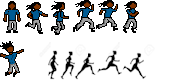
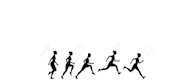
Implemented animated textures on blocks, added background, fed the dog

Changed region(s): [[0.375, 0.0, 0.75, 0.425], [0.0, 0.0, 0.375, 0.45], [0.0, 0.5, 0.125, 0.975]]

diff --git a/external/engine/source/ecs.cpp b/external/engine/source/ecs.cpp
@@ -10,29 +10,33 @@
 
 int _gfxCompareInt(const void *a, const void *b)
 {
-	return (*(const int *) a) - (*(const int *) b);
+	return (*(int*) a) - (*(int*) b);
 }
 
 void System::Visual::Update(Registry& reg)
 {
     for (std::size_t e = 1; e <= Engine::Get()->GetMaxEntity(); e++)
     {
-        if (reg.regGraphics.count(e) && reg.regPhysics.count(e))
+        if (reg.regGraphics.count(e))
         {
-			reg.regGraphics[e].Dst.x = Engine::Get()->Box2DSDL(reg.regPhysics[e].body->GetPosition()).x 
-            - (reg.regGraphics[e].TextureDimensions.x / 2);
-            reg.regGraphics[e].Dst.y = 
-            (Engine::Get()->GetWindowSurface()->h - Engine::Get()->Box2DSDL(reg.regPhysics[e].body->GetPosition()).y) - 
-            (reg.regGraphics[e].TextureDimensions.y / 2);
-            reg.regGraphics[e].Dst.w = reg.regGraphics[e].TextureDimensions.x;
-            reg.regGraphics[e].Dst.h = reg.regGraphics[e].TextureDimensions.y;
+			if (reg.regPhysics.count(e) && (reg.regPhysics[e].body->GetType() == b2_dynamicBody))
+			{
+				reg.regGraphics[e].Dst.x = Engine::Get()->Box2DSDL(reg.regPhysics[e].body->GetPosition()).x 
+            	- (reg.regGraphics[e].TextureDimensions.x / 2);
+            	reg.regGraphics[e].Dst.y = 
+            	(Engine::Get()->GetWindowSurface()->h - Engine::Get()->Box2DSDL(reg.regPhysics[e].body->GetPosition()).y) - 
+            	(reg.regGraphics[e].TextureDimensions.y / 2);
 
+            	reg.regGraphics[e].Dst.w = reg.regGraphics[e].TextureDimensions.x;
+            	reg.regGraphics[e].Dst.h = reg.regGraphics[e].TextureDimensions.y;
+			} 
+		
 			if (reg.regGraphics[e].Animated)
 			{
 				reg.regGraphics[e].CurrentFrame = 
 				reg.regGraphics[e].AnimationType[(int)((SDL_GetTicks64() / reg.regGraphics[e].Delay) % reg.regGraphics[e].FrameCount)];
 			}
-        }
+        }	
     }
 }
 
@@ -40,21 +44,26 @@ void System::Visual::Render(Registry& reg)
 {
     for (std::size_t e = 1; e <= Engine::Get()->GetMaxEntity(); e++)
     {
-		if (reg.regSolid.count(e))
-		{
-			FillPolygon(Engine::Get()->GetRenderer(), reg.regSolid[e].SDLVerteces, reg.regSolid[e].nVerteces, 255, 255, 
-			255, 255);
-		} else if (reg.regGraphics.count(e)) {
+		if (reg.regGraphics.count(e)) {
 			if (reg.regGraphics[e].Animated)
 			{								
 				SDL_RenderCopyEx(Engine::Get()->GetRenderer(), GetTexturePtr(e), &reg.regGraphics[e].Frames[reg.regGraphics[e].CurrentFrame], 
 				&reg.regGraphics[e].Dst, 0, 0, (SDL_RendererFlip)reg.regGraphics[e].Facing);																
 			}
 			else
-            	SDL_RenderCopy(Engine::Get()->GetRenderer(), GetTexturePtr(e), 0, 
-				&reg.regGraphics[e].Dst);
-        }   
+				SDL_RenderCopy(Engine::Get()->GetRenderer(), GetTexturePtr(e), 0, &reg.regGraphics[e].Dst);	
+        }
+		else if (reg.regSolid.count(e))
+		{
+			FillPolygon(Engine::Get()->GetRenderer(), reg.regSolid[e].SDLVerteces, reg.regSolid[e].nVerteces, 255, 255, 
+			255, 255);
+		} 
     }
+}
+
+void System::Visual::RenderBackground(Registry &reg)
+{
+	SDL_RenderCopy(Engine::Get()->GetRenderer(), GetTexturePtr(997), 0, 0);
 }
 
 const std::size_t& System::Visual::LoadFromFile(const std::size_t& ID, const char* path)
@@ -153,11 +162,6 @@ const int& ClipNumber, const int& ClipHeight, const int& ClipWidth, const int& C
 				
 				Engine::Get()->GetRegistry()->regGraphics[EntityID].Frames[i].w = ClipWidth;
 				Engine::Get()->GetRegistry()->regGraphics[EntityID].Frames[i].h = ClipHeight;
-
-				std::cout << "Clip " << i << " at " << Engine::Get()->GetRegistry()->regGraphics[EntityID].Frames[i].x << " | " 
-				<< Engine::Get()->GetRegistry()->regGraphics[EntityID].Frames[i].y << '\n';
-				std::cout << "with " << Engine::Get()->GetRegistry()->regGraphics[EntityID].Frames[i].w << " | " 
-				<< Engine::Get()->GetRegistry()->regGraphics[EntityID].Frames[i].h << '\n';
 			}
 
 			else if (!(i > ClipsInARow * (i - ClipsInARow + 1)))
@@ -179,11 +183,6 @@ const int& ClipNumber, const int& ClipHeight, const int& ClipWidth, const int& C
 
 				Engine::Get()->GetRegistry()->regGraphics[EntityID].Frames[i].w = ClipWidth;
 				Engine::Get()->GetRegistry()->regGraphics[EntityID].Frames[i].h = ClipHeight;
-
-				std::cout << "Clip " << i << " at " << Engine::Get()->GetRegistry()->regGraphics[EntityID].Frames[i].x << " | " 
-				<< Engine::Get()->GetRegistry()->regGraphics[EntityID].Frames[i].y << '\n';
-				std::cout << "with " << Engine::Get()->GetRegistry()->regGraphics[EntityID].Frames[i].w << " | " 
-				<< Engine::Get()->GetRegistry()->regGraphics[EntityID].Frames[i].h << '\n';
 			}
 		}
 	}
@@ -196,6 +195,7 @@ int System::Visual::hline(SDL_Renderer* renderer, Sint16 x1, Sint16 x2, Sint16 y
 	return SDL_RenderDrawLine(renderer, x1, y, x2, y);;
 }
 
+//Algorithm shamelessly stolen from Sabdul Khabir [https://github.com/sabdul-khabir/SDL3_gfx]	
 void System::Visual::FillPolygon(SDL_Renderer* renderer, b2Vec2* verteces, int n, Uint8 r, Uint8 g, Uint8 b, Uint8 a)
 {
 	int result;
@@ -388,7 +388,7 @@ void System::Load::LoadStage(const std::string& filepath)
 	if(Stage.fail())
 		std::cout << "[!] File not found!" << '\n';
     
-	unsigned int nScreens = 0; //doesnt read the second file :(
+	unsigned int nScreens = 0;
 	Stage.read((char*)&nScreens, sizeof(unsigned int));
     Screen* ImportedScreens = new Screen[nScreens];
     
@@ -420,7 +420,7 @@ void System::Load::LoadStage(const std::string& filepath)
 
 	CurrentStage.nScreens = nScreens;
 	CurrentStage.Screens = ImportedScreens;
-	std::cout << CurrentStage.nScreens << '\n';
+	std::cout << CurrentStage.Screens[0].StartPosition.x << " | " << CurrentStage.Screens[0].StartPosition.y << std::endl;
 	CurrentScreen = 0;
 	LoadScreen(CurrentStage.Screens[CurrentScreen]);
 }
@@ -432,8 +432,11 @@ void System::Load::LoadScreen(const Screen& screen)
 		PlatformIDs.push_back(Engine::Get()->RegisterSolid(screen.Platforms[i]));
 	}
 	
-	if(CurrentScreen <= 0)
+	if(screen.StartPosition.x != -8.0f && screen.StartPosition.y != 4.5f)
+	{
 		Teleport(PlayerID, Engine::Get()->GetRegistry(), screen.StartPosition);
+	}
+		
 }
 
 void System::Load::UnloadScreen(const Screen& screen)
@@ -450,9 +453,10 @@ void System::Load::Update(const std::size_t& ID, Registry& reg)
 {	
 	if (reg.regStage[ID].Restart)
 	{
-		std::cout << "dead" << '\n';
+		std::cout << "Restart" << std::endl;
+		Teleport(ID, &reg, CurrentStage.Screens[CurrentScreen].StartPosition);
+		reg.regStage[ID].Restart = 0;
 	}
-		//Teleport(ID, &reg, {StartPos.x, StartPos.y});
 
 	else if (GoToNext)
 	{
@@ -465,7 +469,6 @@ void System::Load::Update(const std::size_t& ID, Registry& reg)
 		{
 			CurrentScreen++;
 			LoadScreen(CurrentStage.Screens[CurrentScreen]);
-			StartPos = reg.regPhysics[ID].body->GetPosition();
 		}
 		else
 		{
@@ -473,7 +476,7 @@ void System::Load::Update(const std::size_t& ID, Registry& reg)
         	std::string Filename = "Level_";
         	Filename += std::to_string(Level);
 			std::cout << Filename << '\n';
-			LoadStage("../../res/lvl/" + Filename + ".bin");
+			LoadStage("../../assets/level/" + Filename + ".bin");
 		}
 
 		GoToNext = false;

diff --git a/external/engine/source/engine.cpp b/external/engine/source/engine.cpp
@@ -56,6 +56,7 @@ bool Engine::Initialize(std::string title, const unsigned int& width, const unsi
     LastTick = 0;
 
     Resources.fontPlayFair = TTF_OpenFont("../../assets/font/PlayfairDisplay-Regular.ttf", 36); 
+    GraphicsSystem.LoadFromFile(997, "../../assets/image/bg/cosmos.png");
 
     PhysicsDebugger.SetFlags(b2Draw::e_shapeBit);
     PhysicsSystem.GetWorld()->SetDebugDraw(&PhysicsDebugger);
@@ -65,9 +66,13 @@ bool Engine::Initialize(std::string title, const unsigned int& width, const unsi
     PhysicsSystem.World->SetContactListener(&collisionListener);
     
     Player = RegisterPlayer(b2Vec2(0, 0), b2Vec2(0.30f, 0.50f), "../../assets/image/Untitled.png");
+    std::cout << Player << '\n';
 
     LevelLoader.SetPlayerID(Player);
     LevelLoader.LoadStage("../../assets/level/Level_1.bin");
+    
+
+
 
     return true;
 }
@@ -141,15 +146,10 @@ void Engine::Update()
     
     float Dt = (float)((CurrentTick - LastTick) * 10 / (float)SDL_GetPerformanceFrequency());
     
-    DisplayFPS.str(std::string());
-    DisplayFPS << FrameCount / (EngineTimer.GetTicks() / 1000.0f);
-    
     PhysicsSystem.Update(Dt);
-    
     PlayerSystem.Update(Player, EngineRegistry);
     GraphicsSystem.Update(EngineRegistry);
     LevelLoader.Update(Player, EngineRegistry);
-    
 
     FrameCount++;
 }
@@ -158,17 +158,15 @@ void Engine::Render()
 {   
     SDL_SetRenderDrawColor(Renderer, 24, 24, 24, 0xFF);
     SDL_RenderClear(Renderer);
-    PhysicsDebugger.DrawGridline(40);
-    PhysicsDebugger.DrawCartesianAxis();
-    PhysicsSystem.World->DebugDraw();
+    
+    GraphicsSystem.RenderBackground(EngineRegistry);
     GraphicsSystem.Render(EngineRegistry);
-
-    RenderText(b2Vec2(10, 10), DisplayFPS.str(), Resources.fontPlayFair, {255, 255, 255, 255}, 0, 0, SDL_FLIP_NONE);
+    
     SDL_RenderPresent(Renderer);
 }
 
 #pragma region ECS
-std::size_t Engine::RegisterSolid(const b2Vec2& position, const b2Vec2& dimensions)
+std::size_t Engine::RegisterSolid(const b2Vec2& position, const b2Vec2& dimensions) //DEPRECATED
 {
     //Box2D Initialization
     std::size_t Solid = CreateEntity();
@@ -193,6 +191,7 @@ std::size_t Engine::RegisterSolid(const b2Vec2& position, const b2Vec2& dimensio
     //Body enters the Registry
     EngineRegistry.regPhysics[Solid].body = bodySolid;
     
+    
     return Solid;
 }
 
@@ -212,7 +211,7 @@ std::size_t Engine::RegisterSolid(const Box2DPlatform& platformData)
     b2Vec2* vec = new b2Vec2[platformData.nVerteces];
     for (int i = 0; i < platformData.nVerteces; i++)
         vec[i].Set(platformData.Verteces[i].x, platformData.Verteces[i].y);
-
+    
     shapeSolid.CreateLoop(vec, platformData.nVerteces);
 
     b2FixtureDef fixtSolid;
@@ -227,7 +226,37 @@ std::size_t Engine::RegisterSolid(const Box2DPlatform& platformData)
     else if (platformData.Mat == Material::KILL)
     {
         EngineRegistry.regUser[Solid].Fatal = 1;
-        std::cout << "Fatal" << std::endl;
+        GraphicsSystem.LoadSpriteSheetFromFile(Solid, "../../assets/image/static.png", 6, 16, 16, 6);
+        EngineRegistry.regGraphics[Solid].TextureDimensions = b2Vec2(16, 16);
+        EngineRegistry.regGraphics[Solid].Animated = true;
+        int staticAnimation = rand() % 4 + 1;
+        switch (staticAnimation)
+        {
+            case 1:
+                EngineRegistry.regGraphics[Solid].AnimationType = Animation::STATIC;
+            break;
+            case 2:
+                EngineRegistry.regGraphics[Solid].AnimationType = Animation::STATIC_2;
+            break;
+            case 3:
+                EngineRegistry.regGraphics[Solid].AnimationType = Animation::STATIC_3;
+            break;
+            case 4:
+                EngineRegistry.regGraphics[Solid].AnimationType = Animation::STATIC_4;
+            break;
+        }
+        EngineRegistry.regGraphics[Solid].FrameCount = 6;
+        EngineRegistry.regGraphics[Solid].CurrentFrame = 0;
+        EngineRegistry.regGraphics[Solid].Delay = 100;
+        std::cout << "Position of entity [" << Solid << "] in Box2D space :" 
+        << platformData.Verteces[1].x << " | " << platformData.Verteces[1].y << std::endl;
+
+        b2Vec2 Dst = Box2DSDL(b2Vec2(platformData.Verteces[1].x, platformData.Verteces[1].y));
+        EngineRegistry.regGraphics[Solid].Dst.x = Dst.x;
+        EngineRegistry.regGraphics[Solid].Dst.y = Height - Dst.y;
+        EngineRegistry.regGraphics[Solid].Dst.w = 
+        Box2DSDLf(b2Distance(b2Vec2(platformData.Verteces[1].x, platformData.Verteces[1].y), b2Vec2(platformData.Verteces[0].x, platformData.Verteces[0].y)));
+        EngineRegistry.regGraphics[Solid].Dst.h = EngineRegistry.regGraphics[Solid].Dst.w;
     }
         
     
@@ -329,7 +358,7 @@ std::size_t Engine::RegisterPlayer(const b2Vec2& position, const b2Vec2& dimensi
     EngineRegistry.regGraphics[Player].AnimationType = Animation::PLAYER_WALK;
     EngineRegistry.regGraphics[Player].FrameCount = 8;
     EngineRegistry.regGraphics[Player].CurrentFrame = 0;
-    EngineRegistry.regGraphics[Player].Delay = 120;
+    EngineRegistry.regGraphics[Player].Delay = 110;
     EngineRegistry.regPhysics[Player].body = bodyPlayer;
     EngineRegistry.regActor[Player].PreviousPosition = b2Vec2(position.x, position.y);
     EngineRegistry.regPlayer[Player].MoveState = PlayerMoveX::STOP;

diff --git a/external/engine/source/collision.cpp b/external/engine/source/collision.cpp
@@ -9,17 +9,17 @@ void CollisionListener::BeginContact(b2Contact* contact)
 
     if (UserData->GroundCheck && contact->GetFixtureA()->IsSensor())
     {
-        if (UserData->Fatal)
-        {
-            Engine::Get()->GetRegistry()->regStage[UserData->ECS_ID].Restart = 1;
-            std::cout << "Dead!" << '\n';
-        }
-        
         Engine::Get()->GetRegistry()->regPlayer[UserData->ECS_ID].GroundContacts++;
         Engine::Get()->GetRegistry()->regPlayer[UserData->ECS_ID].DoubleJump = 1;
         Engine::Get()->GetRegistry()->regPlayer[UserData->ECS_ID].OnGround = true;
-    } 
-
+    }
+    
+    if (UserData->Fatal)
+    {
+        std::cout << "Dead!" << '\n';
+        Engine::Get()->GetRegistry()->regStage[1].Restart = 1;
+    }
+    
     else if (UserData->Anchor == 1 && contact->GetFixtureA()->IsSensor())
     {
         Engine::Get()->GetLevelLoader()->FlagNext();
@@ -31,12 +31,12 @@ void CollisionListener::BeginContact(b2Contact* contact)
         Engine::Get()->GetRegistry()->regPlayer[UserData->ECS_ID].GroundContacts++;
         Engine::Get()->GetRegistry()->regPlayer[UserData->ECS_ID].DoubleJump = 1;
         Engine::Get()->GetRegistry()->regPlayer[UserData->ECS_ID].OnGround = true;
-        
-        if (UserData->Fatal)
-        {
-            Engine::Get()->GetRegistry()->regStage[UserData->ECS_ID].Restart = 1;
-            std::cout << "Dead!" << '\n';
-        }
+    }
+
+    if (UserData->Fatal)
+    {
+        std::cout << "Dead!" << '\n';
+        Engine::Get()->GetRegistry()->regStage[1].Restart = 1;
     }
 
     else if (UserData->Anchor == 1 && contact->GetFixtureB()->IsSensor())

diff --git a/external/engine/header/ECS.h b/external/engine/header/ECS.h
@@ -29,6 +29,11 @@ namespace Animation
     const int8_t PLAYER_WALK[4] = {1, 2, 3, 4};
     const int8_t PLAYER_MIDAIR[2] = {8, 9};
     const int8_t PLAYER_ROLL[3] = {};
+    const int8_t STATIC[6] = {0, 1, 2, 3, 4, 5};
+    const int8_t STATIC_2[6] = {4, 5, 1, 3, 2, 0};
+    const int8_t STATIC_3[6] = {3, 0, 2, 3, 1, 4};
+    const int8_t STATIC_4[6] = {5, 2, 4, 0, 1, 5};
+
 };
 
 struct Res
@@ -81,7 +86,7 @@ struct Component
 {
     struct Visual
     {   
-        b2Vec2 TextureDimensions;
+        b2Vec2 TextureDimensions; 
         SDL_Rect Dst;
 
         bool Animated;
@@ -188,6 +193,7 @@ struct System
         Visual() {}
     public:
         void Render(Registry& reg);
+        void RenderBackground(Registry& reg);
         void Update(Registry& pReg);
     };
     
